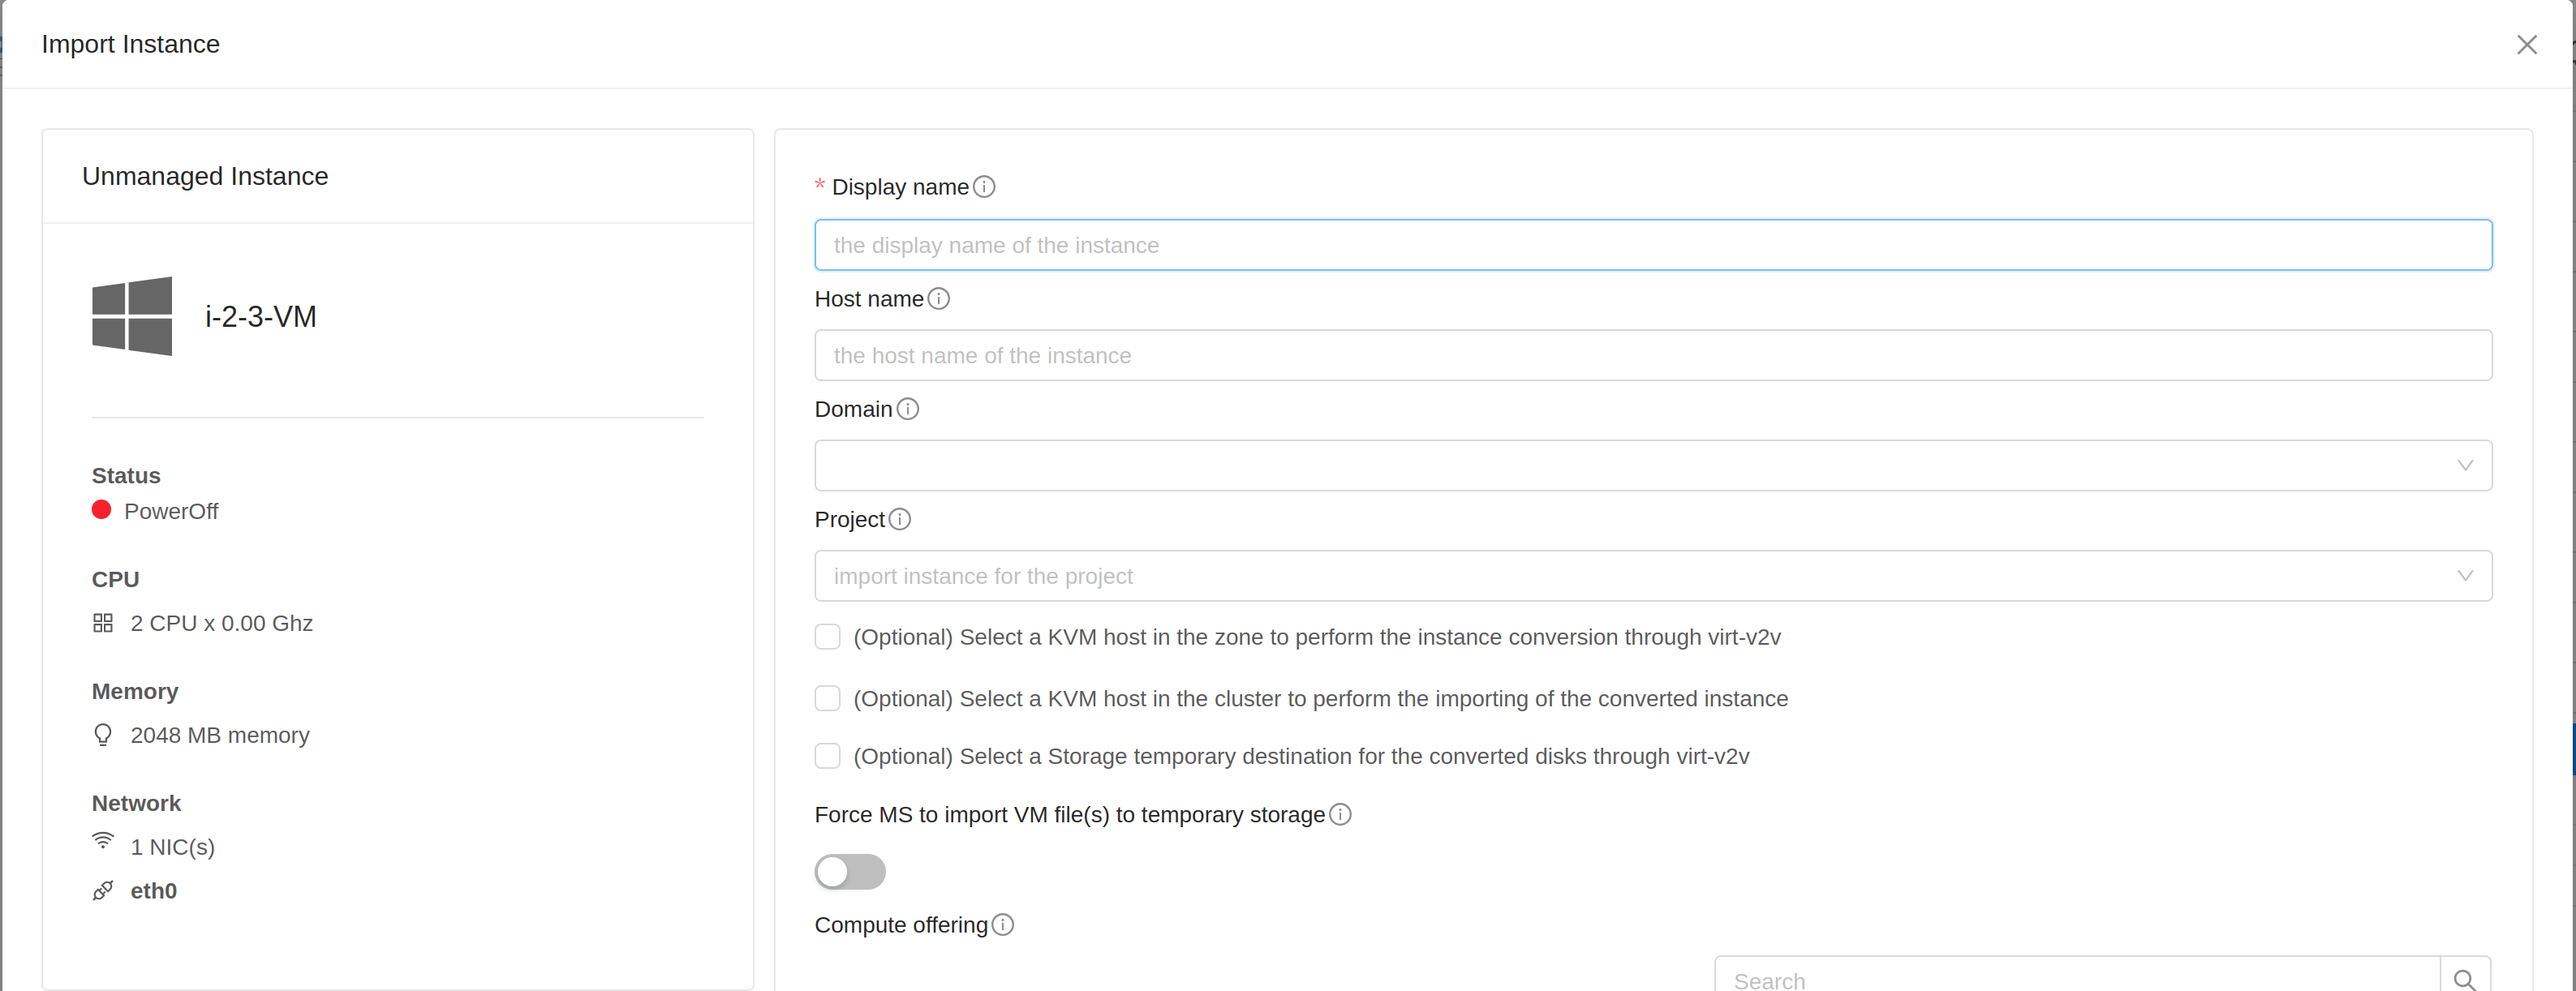
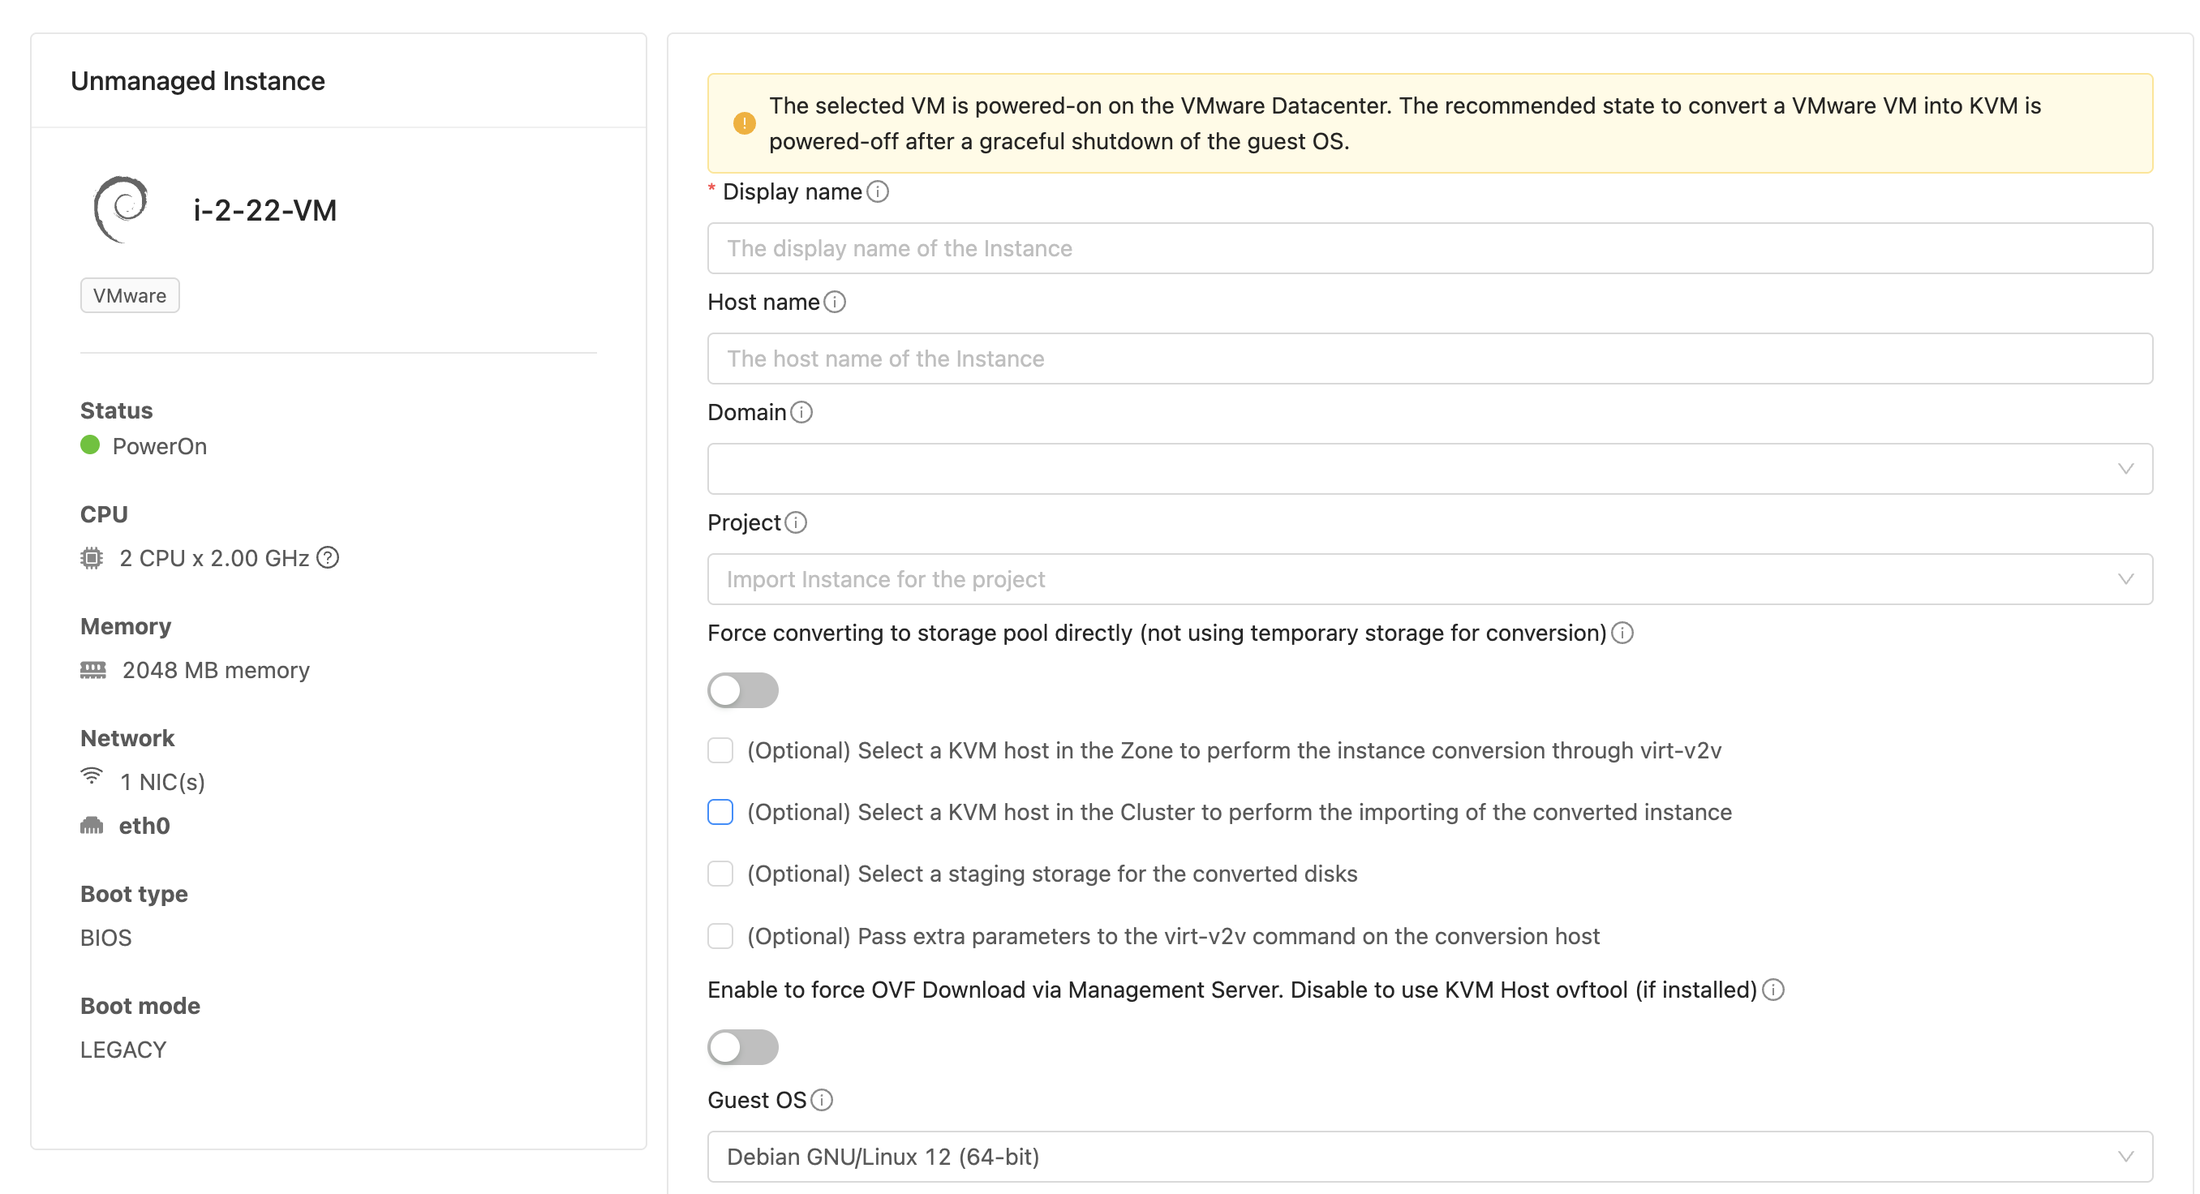
Improve VMware to KVM migration docs

diff --git a/source/adminguide/virtual_machines/importing_vmware_vms_into_kvm.rst b/source/adminguide/virtual_machines/importing_vmware_vms_into_kvm.rst
@@ -154,9 +154,28 @@ Converting and importing a VMware VM
 
 .. note:: You can configure the parallel import of VM disk files on KVM host and management server, using the global settings: threads.on.kvm.host.to.import.vmware.vm.files and threads.on.ms.to.import.vmware.vm.files respectively.
 
-In the UI import wizard, you can optionally select a KVM host and temporary destination storage (default is Secondary Storage, but if using Primary Storage - only NFS pools are supported) for the conversion, where VM files (OVF) will be copied to. This can be done by a random (or explicitly chosen) KVM host (if the ovftools are installed), otherwise, the management server will export/copy the VM files (optionally, you can force this action to be done by the management server even the KVM hosts have the ovftools installed in it). Irrelevant if the KVM host or the management server performs the copy of the VM files (OVF), you can further either let CloudStack choose which KVM host should do the conversion of the VM files using virt-v2v and which host will import the files to the destination Primary Storage Pool, or you can explicitly choose these KVM hosts for each of the 2 mentioned operations.
-
 |import-vm-from-vmware-to-kvm-options.png|
+
+In the UI import wizard, administrators can select:
+
+    - (Optional) A KVM host to perform the conversion (must have virt-v2v installed). In case it is not set, then a KVM host is randomly selected.
+    - (Optional) A KVM host to import the converted files into CloudStack (this host must have access to the temporary conversion storage in order to move the converted files to the destination storage). In case it is not set, then a KVM host is randomly selected.
+    - (Optional) Extra parameters: in case the global setting **convert.vmware.instance.to.kvm.extra.params.allowed** (disabled by default) is enabled, then administrators are allowed to pass extra parameters for the virt-v2v conversion command. This setting must be set along with the setting **convert.vmware.instance.to.kvm.extra.params.allowed.list** (empty by default) which indicates the list of parameters that CloudStack will accept for passing to the virt-v2v conversion command on the KVM hosts.
+    
+Since version 4.22 it is possible to indicate converting to storage pool directly (not using temporary storage for conversion). This is set to false by default, in which case a temporary conversion storage is used.
+
+    - When set to false (temporary storage used), then administrators must select a Temporary destination storage. The default is Secondary Storage, but if using Primary Storage - only NFS pools are supported.
+    - When set to true (not using temporary storage), then administrators must select the destination storage pool. The supported storage pools are: NFS, Local Storage and SharedMountPoint storage pools, under the following assumptions:
+     - The KVM host for conversion must be selected and must have access to the destination storage
+     - The KVM host for importing must be selected and must have access to the destination storage
+     - In case of Local storage, the selected KVM host for conversion must be the same as the KVM host for importing
+
+Since version 4.22.1 it is possible to select the Guest OS for the VM to be imported, based on the source VMware VM Guest OS.
+
+    - When CloudStack has Guest OS mappings for the source VMware Guest OS VM, then the list of supported Guest OS is displayed and administratos can select one of them.
+    - In case there are no Guest OS mappings for the source VMware Guest OS VM, then the default import template Guest OS will be used.
+
+The conversion is performed on a random (or explicitly chosen) KVM host (if the ovftools are installed), otherwise, the management server will export/copy the VM files (optionally, you can force this action to be done by the management server even the KVM hosts have the ovftools installed in it). Irrelevant if the KVM host or the management server performs the copy of the VM files (OVF), you can further either let CloudStack choose which KVM host should do the conversion of the VM files using virt-v2v and which host will import the files to the destination Primary Storage Pool, or you can explicitly choose these KVM hosts for each of the 2 mentioned operations.
 
 When importing an instance from VMware to KVM, CloudStack performs the following actions:
 
@@ -195,10 +214,23 @@ When importing an instance from VMware to KVM, CloudStack performs the following
 
 .. note:: The resulting imported VM uses the default Guest OS type: **CentOS 4.5 (32-bit)**. After importing the VM, please Edit the Instance to change the Guest OS Type accordingly.
 
+VM Import Tasks
+---------------
+
+Since version 4.22 administrators can monitor the VMware to KVM migration jobs. The new section is displayed on *Tools > Import-Export Instances > Migrate existing instances to KVM > VM Import Tasks*:
+
+|import-vm-from-vmware-to-kvm-tasks.png|
+
+The tasks can be filtered by state: Completed, Running or Failed, or listing all the tasks.
+
 .. |import-vm-from-vmware-to-kvm.png| image:: /_static/images/import-vm-from-vmware-to-kvm.png
    :alt: Import VMware Virtual Machines into KVM.
    :width: 800 px
 
 .. |import-vm-from-vmware-to-kvm-options.png| image:: /_static/images/import-vm-from-vmware-to-kvm-options.png
    :alt: Import VMware Virtual Machines into KVM Options.
+   :width: 800 px
+
+.. |import-vm-from-vmware-to-kvm-tasks.png| image:: /_static/images/import-vm-from-vmware-to-kvm-tasks.png
+   :alt: Listing Importing Tasks to Migrate VMware Virtual Machines into KVM.
    :width: 800 px
